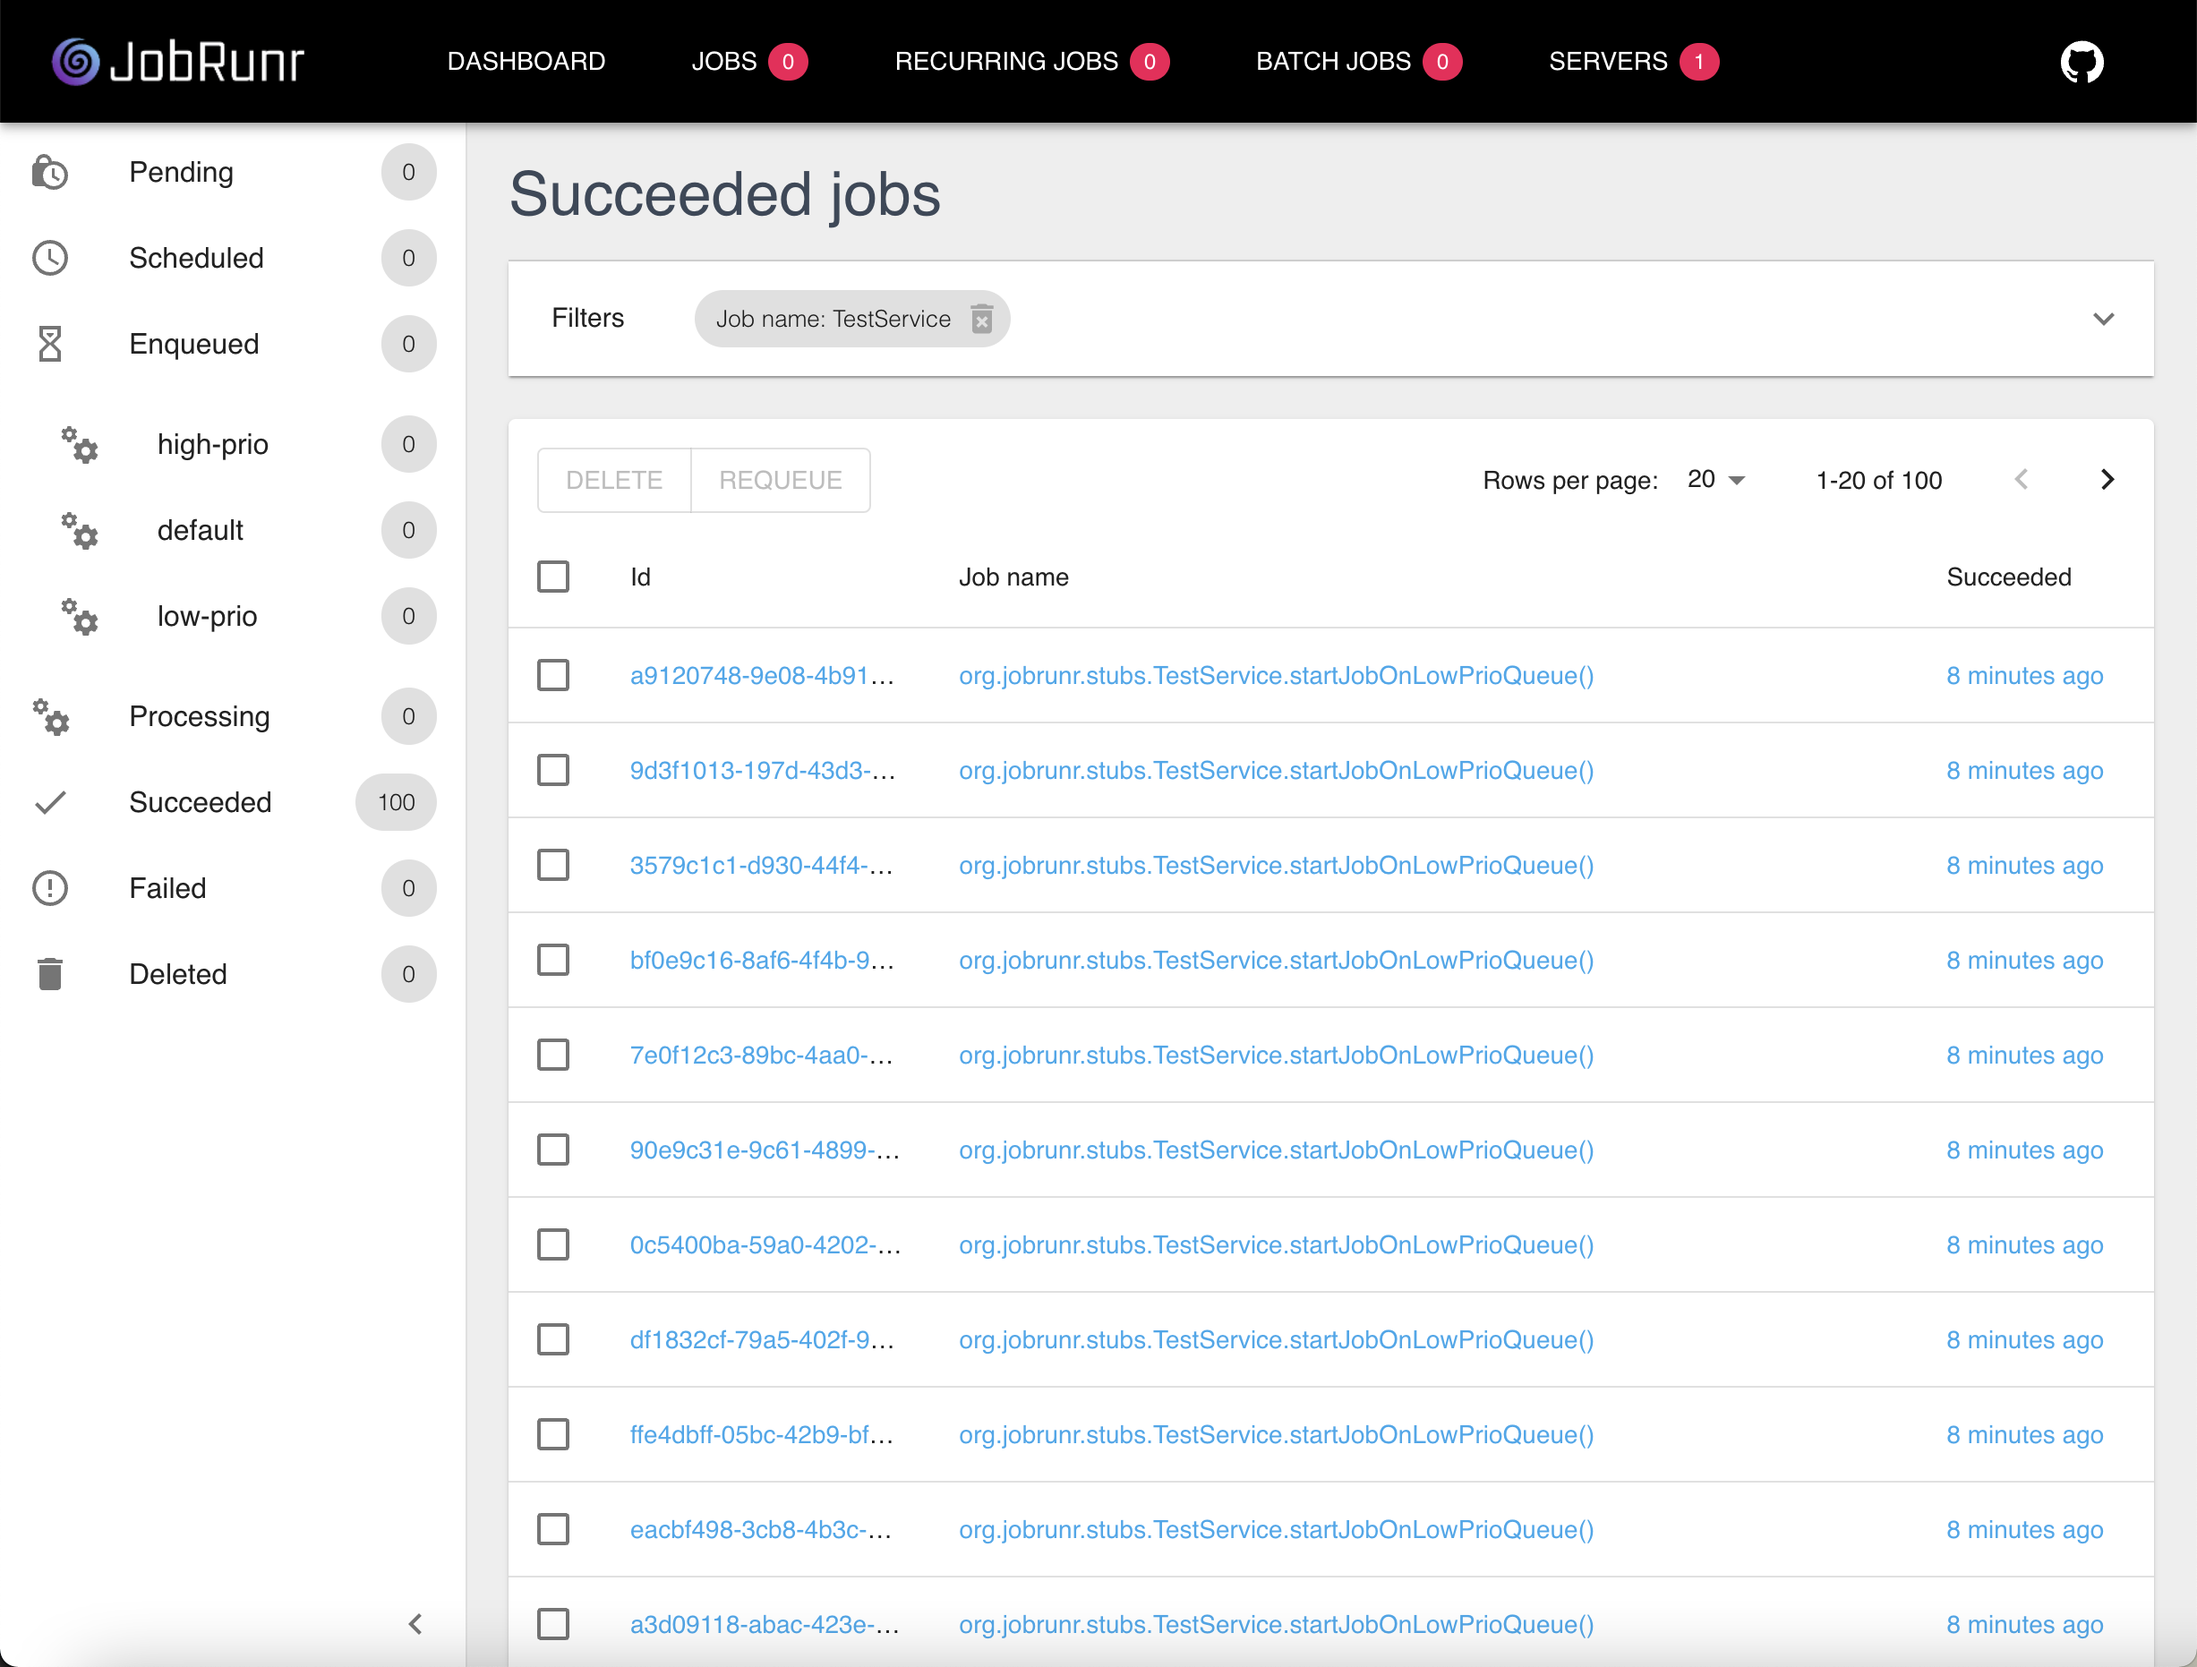
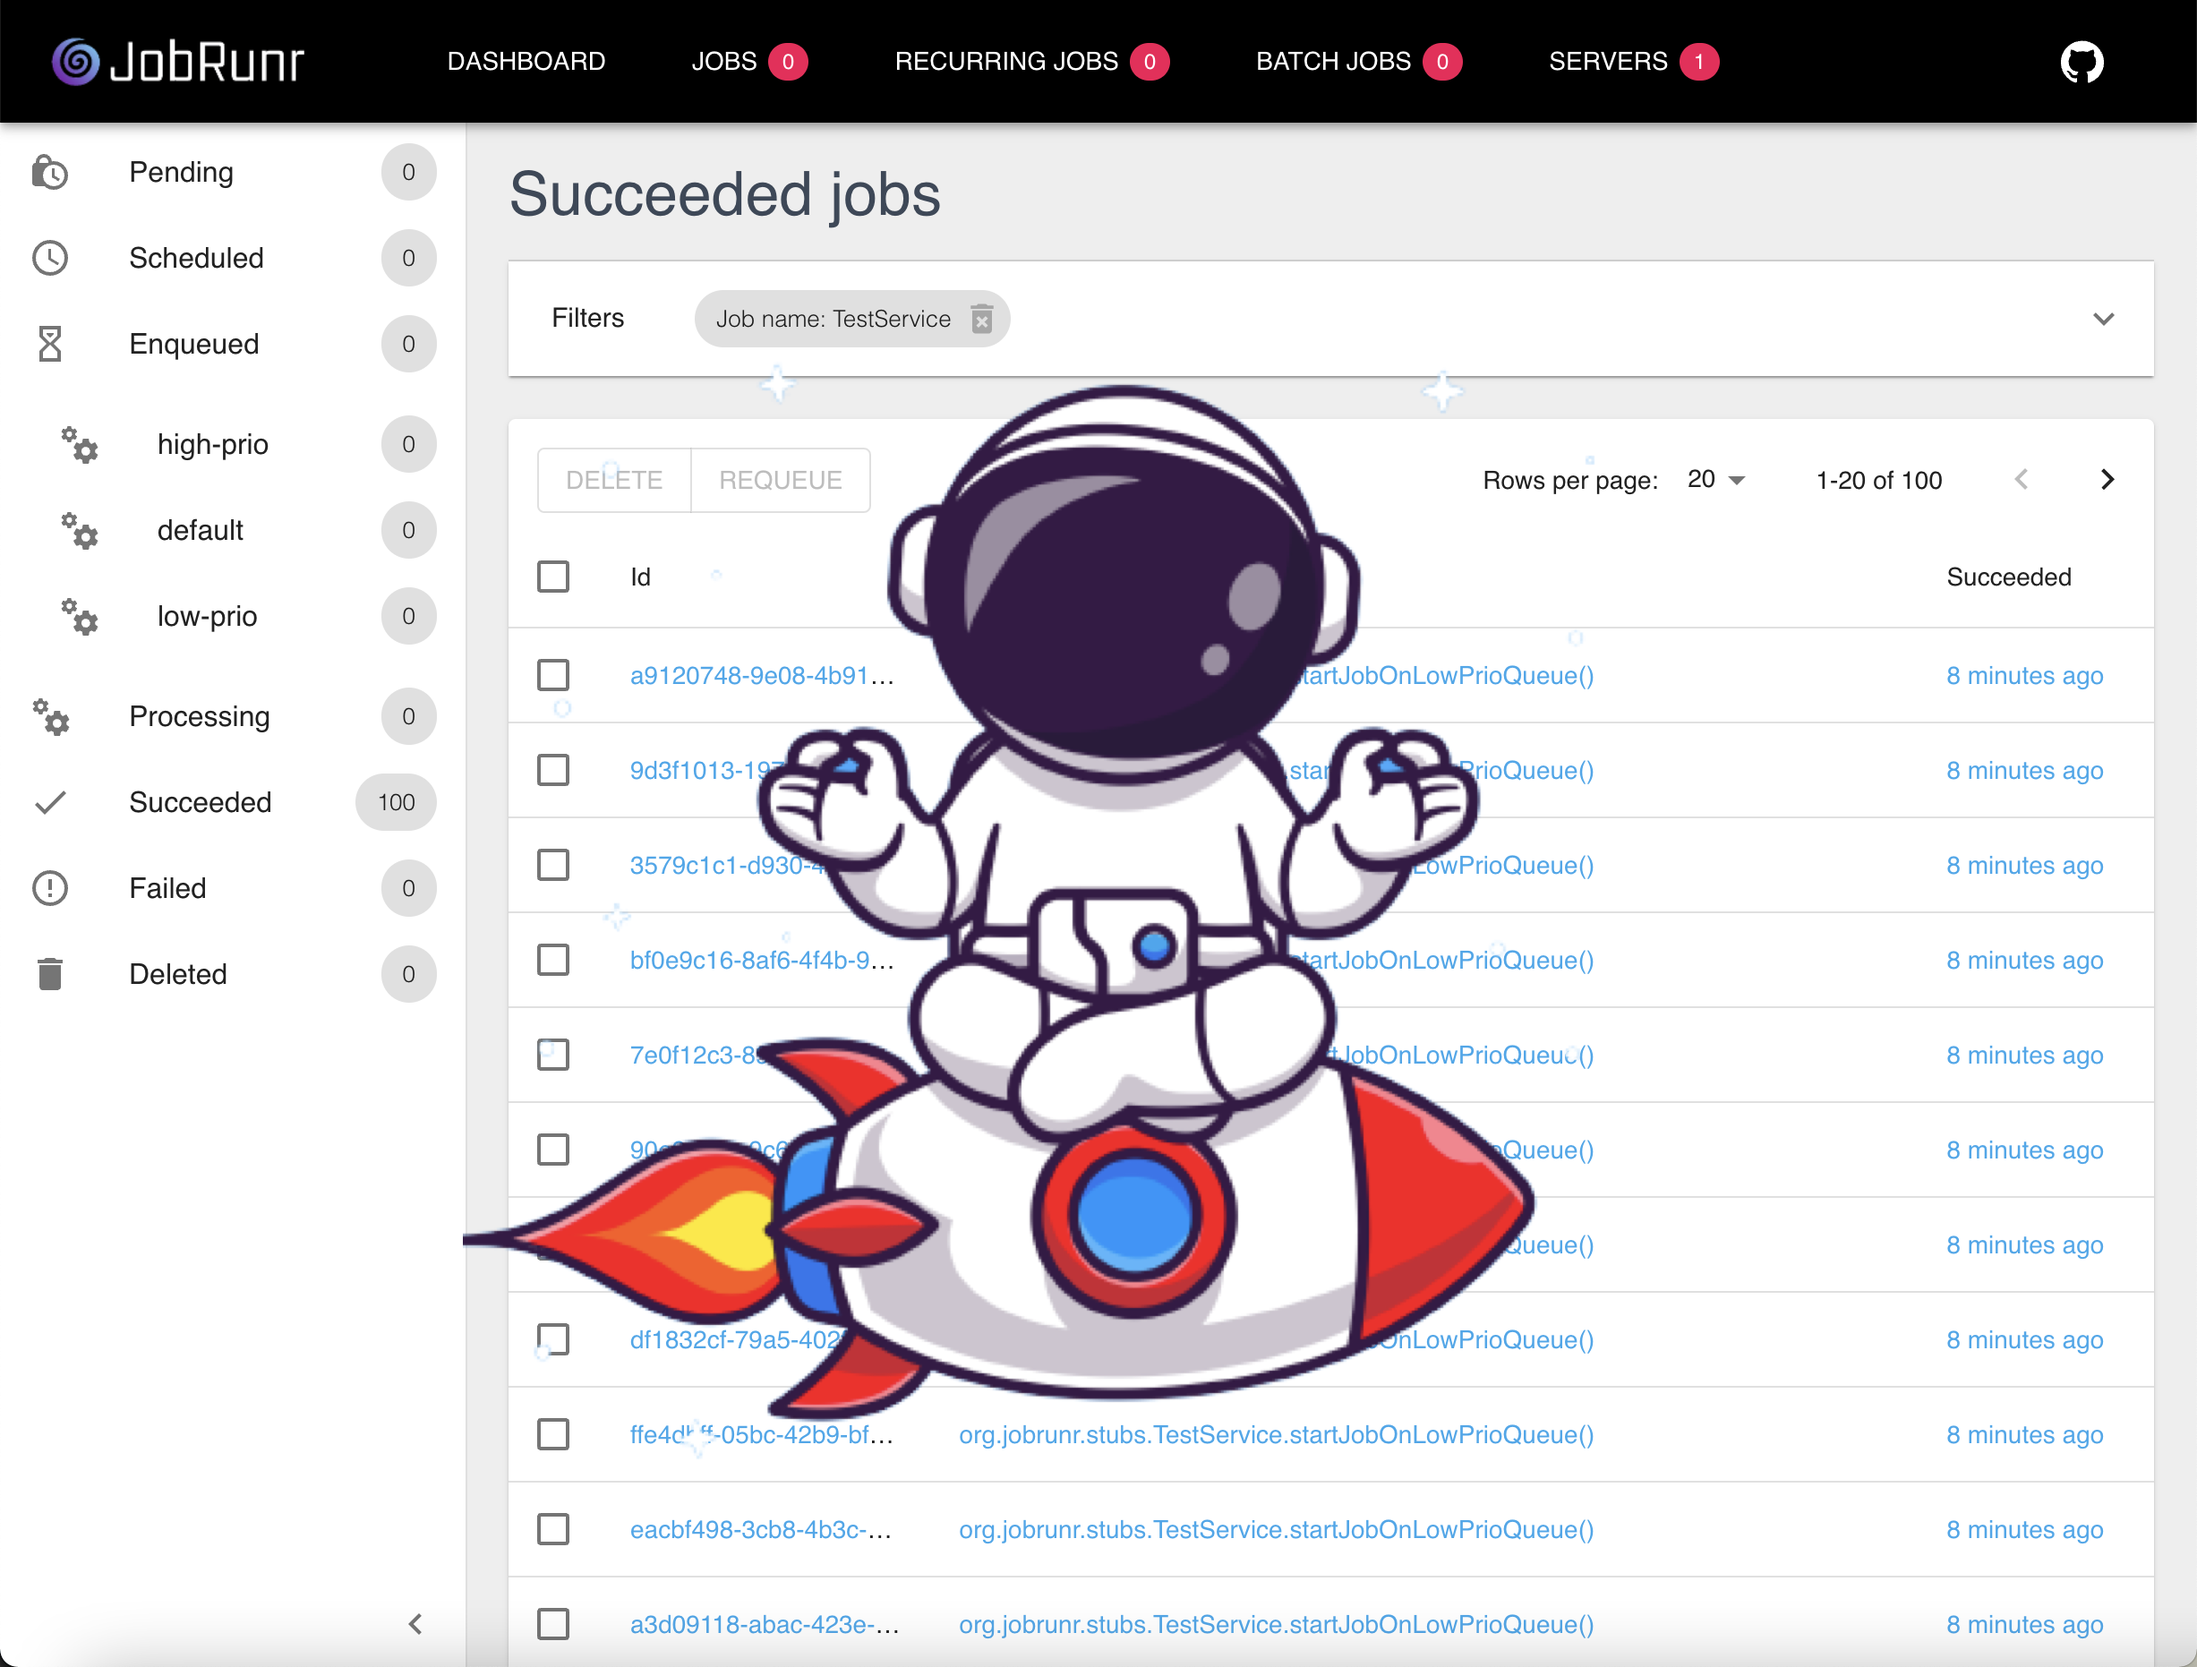
Updates

Changed region(s): [[0.2168, 0.218, 0.7123, 0.8722]]

diff --git a/en/blog/index.html b/en/blog/index.html
@@ -202,7 +202,7 @@ if (!doNotTrack) {
 
         
             <a class="post-card-image-link" href="https://www.jobrunr.io/en/blog/2022-03-30-jobrunr-v5.0.0/">
-                <img class="post-card-image"src="/blog/New-Release.webp" alt="JobRunr &amp; JobRunr Pro v5.0.0"/>
+                <img class="post-card-image"src="/blog/2022-03-30-release.png" alt="JobRunr &amp; JobRunr Pro v5.0.0"/>
             </a>
         
     
@@ -281,7 +281,7 @@ if (!doNotTrack) {
                     </ul>
                     <div class="post-card-byline-content">
                         <span>Ronald Dehuysser</span>
-                        <span class="post-card-byline-date"><time datetime="2021-89-09">14 September 2021</time>
+                        <span class="post-card-byline-date"><time datetime="2021-811-11">10 November 2021</time>
                             <span class="bull">&bull;</span> 3 min read</span>
                     </div>
                 </footer>
@@ -296,7 +296,7 @@ if (!doNotTrack) {
 
         
             <a class="post-card-image-link" href="https://www.jobrunr.io/en/blog/2021-09-08-jobrunr-v4.0.0/">
-                <img class="post-card-image"src="/blog/New-Release.webp" alt="JobRunr &amp; JobRunr Pro v4.0.0"/>
+                <img class="post-card-image"src="/blog/2021-09-14-release.png" alt="JobRunr &amp; JobRunr Pro v4.0.0"/>
             </a>
         
     
@@ -432,7 +432,7 @@ if (!doNotTrack) {
 </article>
     <article class="post-card post
 
- post-card-large 
+
  ">
 
         
@@ -714,7 +714,7 @@ if (!doNotTrack) {
 </article>
     <article class="post-card post
 
- post-card-large 
+
  ">
 
         
@@ -996,7 +996,7 @@ if (!doNotTrack) {
 </article>
     <article class="post-card post
 
- post-card-large 
+
  ">
 
         
@@ -1278,7 +1278,7 @@ if (!doNotTrack) {
 </article>
     <article class="post-card post
 
- post-card-large 
+
  ">
 
         

diff --git a/en/blog/2021-11-10-java-cron-job/index.html b/en/blog/2021-11-10-java-cron-job/index.html
@@ -57,8 +57,8 @@ if (!doNotTrack) {
 <meta property="og:description" content="Need to run a CRON Job in Java? Try out JobRunr for all your recurring java CRON jobs!" />
 <meta property="og:type" content="article" />
 <meta property="og:url" content="https://www.jobrunr.io/en/blog/2021-11-10-java-cron-job/" /><meta property="og:image" content="https://www.jobrunr.io/blog/2020-04-23-jobrunr-gets-jobs-done.webp"/><meta property="article:section" content="blog" />
-<meta property="article:published_time" content="2021-09-14T08:00:00+02:00" />
-<meta property="article:modified_time" content="2021-09-14T08:00:00+02:00" />
+<meta property="article:published_time" content="2021-11-10T08:00:00+02:00" />
+<meta property="article:modified_time" content="2021-11-10T08:00:00+02:00" />
 
 
 
@@ -191,7 +191,7 @@ if (!doNotTrack) {
                                 <h4 class="author-name">Ronald Dehuysser</h4>
                             
                             <div class="byline-meta-content">
-                                <time class="byline-meta-date" datetime="2021-89-09">14 September 2021</time>
+                                <time class="byline-meta-date" datetime="2021-811-11">10 November 2021</time>
                                 <span class="byline-reading-time"><span class="bull">&bull;</span> 3 min read</span>
                             </div>
                         </section>

diff --git a/en/blog/2021-09-08-jobrunr-v4.0.0/index.html b/en/blog/2021-09-08-jobrunr-v4.0.0/index.html
@@ -201,13 +201,16 @@ if (!doNotTrack) {
 
             
             <figure class="post-full-image">
-                <img src="/blog/New-Release.webp" alt="JobRunr &amp; JobRunr Pro v4.0.0" />
+                <img src="/blog/2021-09-14-release.png" alt="JobRunr &amp; JobRunr Pro v4.0.0" />
             </figure>
             
 
             <section class="post-full-content">
                 <div class="post-content">
-                    <h3 id="celebration-time">Celebration time!</h3>
+                    <div style="text-align: center;margin: -2em 0 2em;">
+<small style="font-size: 70%;"><a href='https://www.freepik.com/vectors/cartoon-astronaut'>Cartoon astronaut vector created by catalyststuff - www.freepik.com</a></small>
+</div>
+<h3 id="celebration-time">Celebration time!</h3>
 <p>I&rsquo;m pleased to announce the release of JobRunr v4.0.0 (which is now available via Maven Central) and JobRunr Pro v4.0.0 which is available for customers with a subscription. As this is a major release, there are also some small breaking changes.</p>
 <h3 id="some-great-new-features-to-both-jobrunr-and-jobrunr-pro">Some great new features to both JobRunr and JobRunr Pro!</h3>
 <h6 id="new-features-in-jobrunr">New features in JobRunr</h6>

diff --git a/en/blog/2022-03-30-jobrunr-v5.0.0/index.html b/en/blog/2022-03-30-jobrunr-v5.0.0/index.html
@@ -201,13 +201,16 @@ if (!doNotTrack) {
 
             
             <figure class="post-full-image">
-                <img src="/blog/New-Release.webp" alt="JobRunr &amp; JobRunr Pro v5.0.0" />
+                <img src="/blog/2022-03-30-release.png" alt="JobRunr &amp; JobRunr Pro v5.0.0" />
             </figure>
             
 
             <section class="post-full-content">
                 <div class="post-content">
-                    <h2 id="celebration-time">Celebration time!</h2>
+                    <div style="text-align: center;margin: -2em 0 2em;">
+<small style="font-size: 70%;"><a href='https://www.freepik.com/vectors/cartoon-astronaut'>Cartoon astronaut vector created by catalyststuff - www.freepik.com</a></small>
+</div>
+<h2 id="celebration-time">Celebration time!</h2>
 <p>I&rsquo;m pleased to announce the release of JobRunr v5.0.0 (which is now available via Maven Central) and JobRunr Pro v5.0.0 which is available for customers with a subscription. As this is a major release, there are also some small breaking changes.</p>
 <h2 id="some-great-new-features-to-both-jobrunr-and-jobrunr-pro">Some great new features to both JobRunr and JobRunr Pro!</h2>
 <h3 id="new-features-in-jobrunr">New features in JobRunr</h3>

diff --git a/en/blog/2020-04-20-v09-0/index.html b/en/blog/2020-04-20-v09-0/index.html
@@ -207,7 +207,8 @@ if (!doNotTrack) {
 
             <section class="post-full-content">
                 <div class="post-content">
-                    <p>Time for a new release and we have some great new treats for you:</p>
+                    <p><a href='https://www.freepik.com/vectors/cartoon-astronaut'>Cartoon astronaut vector created by catalyststuff - <a href="https://www.freepik.com">www.freepik.com</a></a>
+Time for a new release and we have some great new treats for you:</p>
 <h2 id="dashboard-improvements">Dashboard improvements</h2>
 <h3 id="dashboard-overview">Dashboard overview</h3>
 <p>A lot of time was spend improving the dashboard - it now has the same look &amp; feel as the website and there is a complete new dashboard overview:</p>

diff --git a/en/try-jobrunr-pro/index.html b/en/try-jobrunr-pro/index.html
@@ -292,9 +292,9 @@ if (!doNotTrack) {
     </div>
     <div id="like-a-pro" style="flex: 1;">
         <h2 style="margin: 1em 0 .5em 0;">Run all your Java jobs, like a Pro.</h2>
-        <figure style="margin: 0em 0 2.5em 0">
-            <img src="/try-jobrunr-pro.png" class="kg-image">
-            <figcaption>Use JobRunr Pro to make your development life easier!</figcaption>
+        <figure style="margin: 0em 0 1.5em 0">
+            <img src="/try-jobrunr-pro.png" class="kg-image" style="max-height: 450px; border-radius: 10px">
+            <figcaption>Use JobRunr Pro to launch millions of jobs and make your<br>development life hassle-free!</figcaption>
         </figure>
     </div>
 </div>
